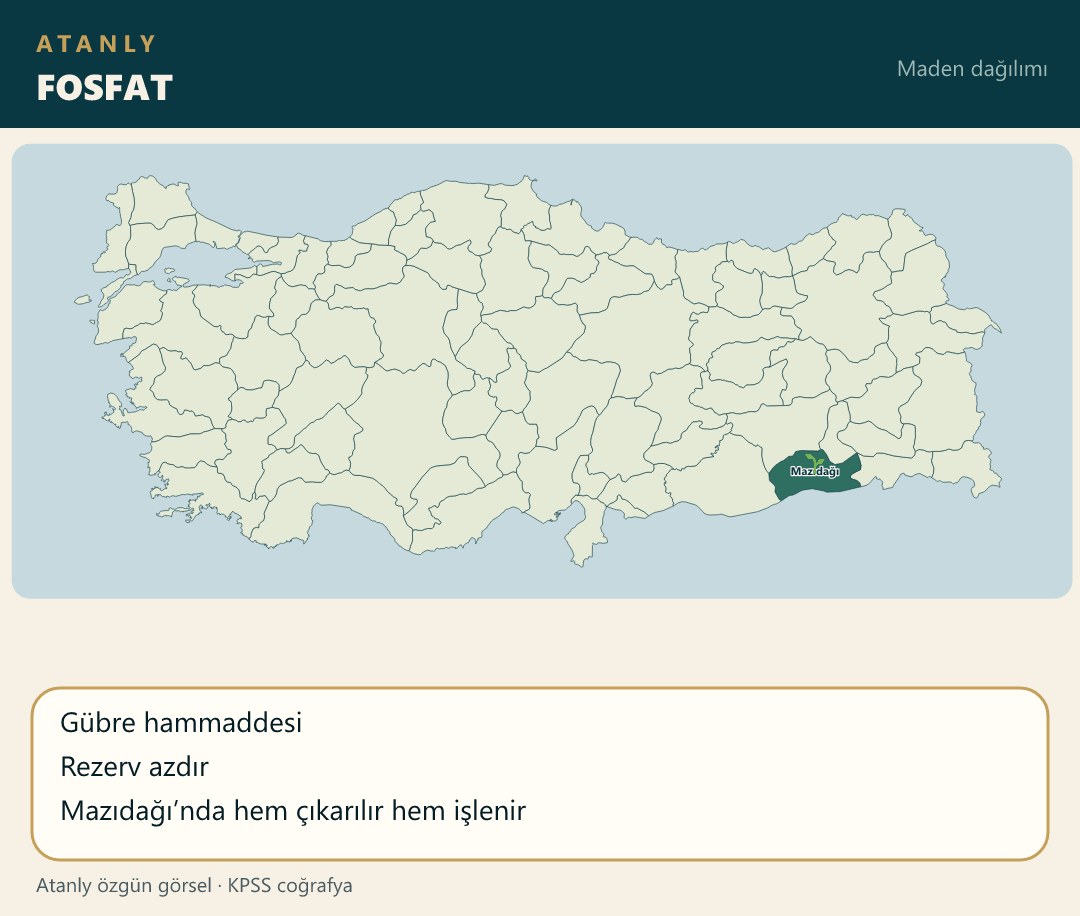
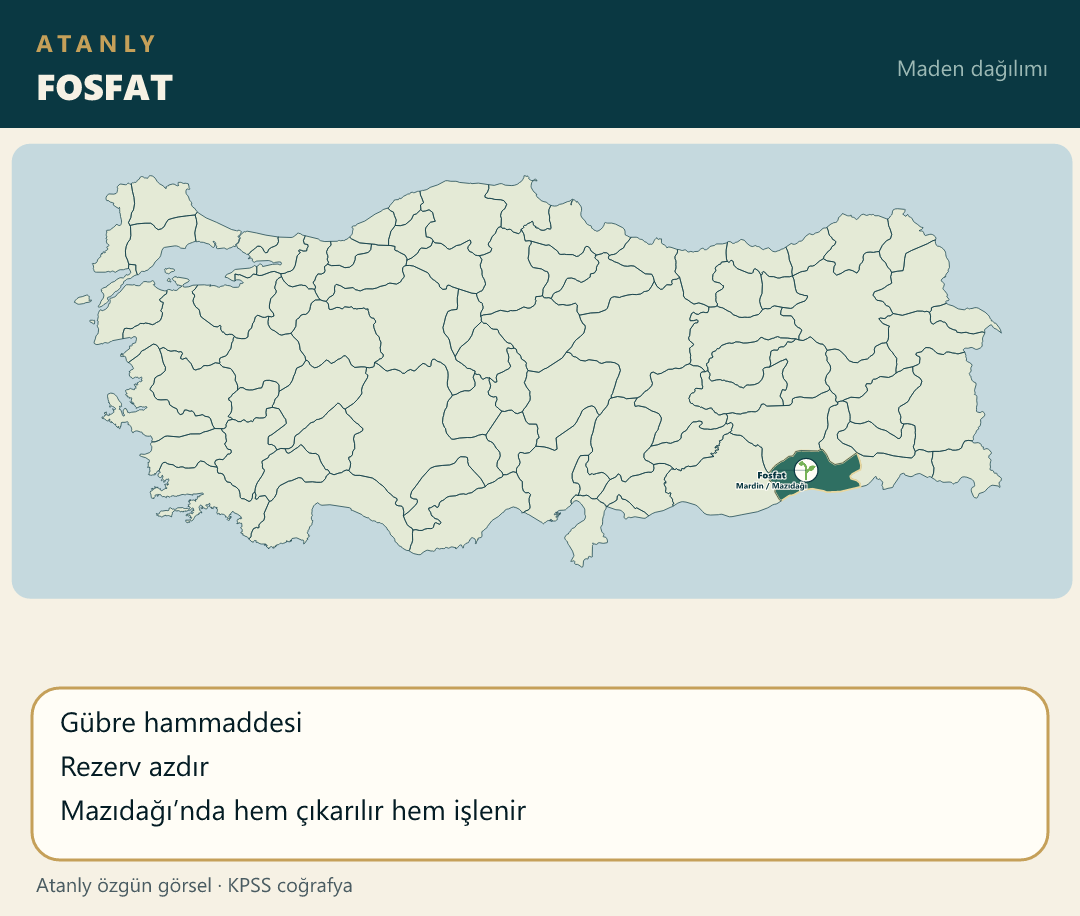
Place the fosfat pin on Mardin land center with Mazıdağı label.

Changed region(s): [[0.6722, 0.4891, 0.7944, 0.5502], [0.7028, 0.3668, 0.7333, 0.3974], [0.6417, 0.3974, 0.6722, 0.4279]]

diff --git a/scripts/build-atanly-maps.js b/scripts/build-atanly-maps.js
@@ -1029,8 +1029,10 @@ function main() {
         { file: "maden_mermer.png", title: "MERMER", iller: ["Afyon", "Balıkesir", "Muğla", "Bursa"],
             yazilar: ["Afyon", "Marmara Adası", "Muğla", "Bursa"],
             facts: ["Kireç taşının başkalaşımıyla oluşur", "En çok Afyon ve Marmara Adası"] },
-        { file: "maden_fosfat.png", title: "FOSFAT", iller: ["Mardin"],
-            yazilar: ["Mazıdağı"],
+        { file: "maden_fosfat.png", title: "FOSFAT", urun: "Fosfat",
+            noktalar: [
+                { il: "Mardin", ilce: "Mazıdağı", ldx: -34, ldy: 8 }
+            ],
             facts: ["Gübre hammaddesi", "Rezerv azdır", "Mazıdağı’nda hem çıkarılır hem işlenir"] },
         { file: "maden_asbest.png", title: "ASBEST (AMYANT)", urun: "Asbest",
             noktalar: [

diff --git a/notlar/cografya-21-not.js b/notlar/cografya-21-not.js
@@ -2,7 +2,7 @@
 (function () {
     function harita(src, alt) {
         return '<div class="mt-4 overflow-hidden rounded-xl border border-blue-200 dark:border-blue-700/50 bg-white dark:bg-slate-800 p-2">' +
-            '<img src="./src/img/' + src + '?v=22" alt="' + alt + ' Haritası" class="w-full h-auto rounded-lg object-contain" loading="lazy">' +
+            '<img src="./src/img/' + src + '?v=23" alt="' + alt + ' Haritası" class="w-full h-auto rounded-lg object-contain" loading="lazy">' +
             "</div>";
     }
 

diff --git a/index.html b/index.html
@@ -119,7 +119,7 @@
     <script src="notlar/cografya-18-not.js?v=17"></script>
     <script src="notlar/cografya-19-not.js?v=25"></script>
     <script src="notlar/cografya-20-not.js?v=1"></script>
-    <script src="notlar/cografya-21-not.js?v=15"></script>
+    <script src="notlar/cografya-21-not.js?v=16"></script>
     <script src="notlar/cografya-22-not.js?v=1"></script>
     <script src="notlar/cografya-23-not.js?v=1"></script>
     <script src="notlar/cografya-24-not.js?v=1"></script>
